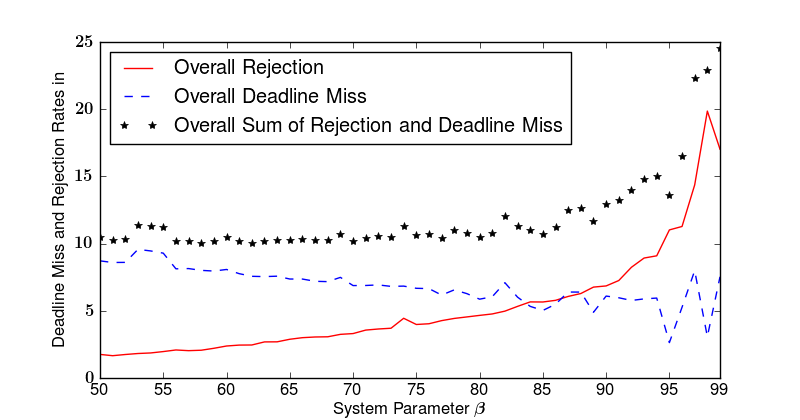
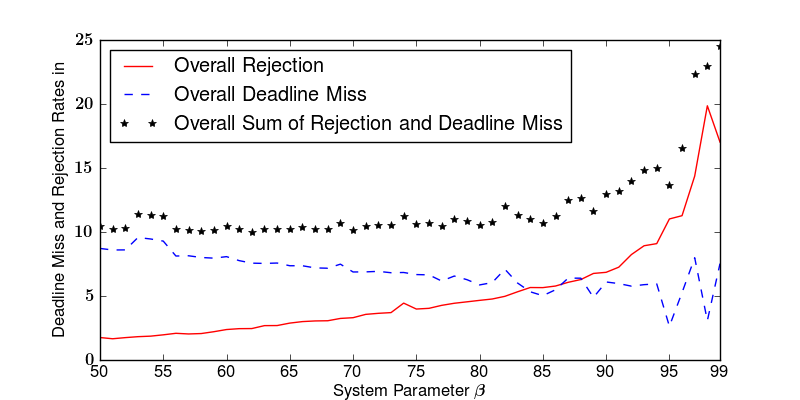
polished varying_ac so its xlabel will not be cut off from the plot

diff --git a/python/MicroFuge_Pyplot/varying_ac/varying_ac.py b/python/MicroFuge_Pyplot/varying_ac/varying_ac.py
@@ -60,9 +60,10 @@ for i in range(KNOB_START, KNOB_STOP, KNOB_STEP):
     overall_sum.append(overall_rejection[len(overall_sum)] + overall_miss[len(overall_sum)])
     x_axis.append(i)
 
-
+# The next line of code make sure that the xlabel is not cut off from the plot
+plt.subplots_adjust(bottom=0.15)
 # all about graph now
-plt.figure(None, figsize=(8,4.2), dpi=300)
+plt.figure(None, figsize=(8,4), dpi=300)
 plt.plot(x_axis, overall_rejection, 'r-', label='Overall Rejection')
 plt.plot(x_axis, overall_miss, 'b--', label='Overall Deadline Miss')
 plt.plot(x_axis, overall_sum, "k*", label="Overall Sum of Rejection and Deadline Miss")
